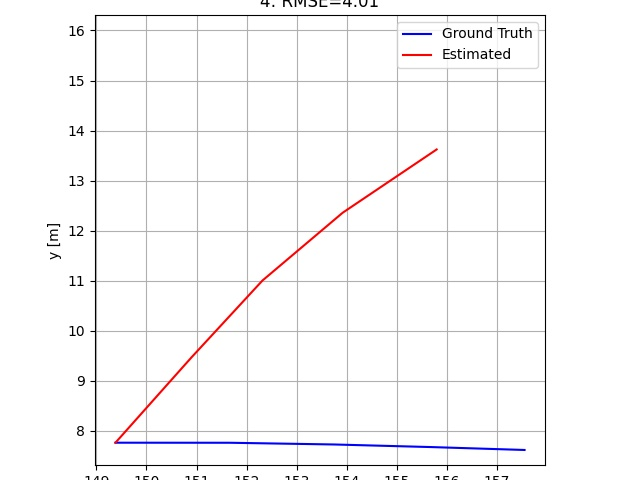
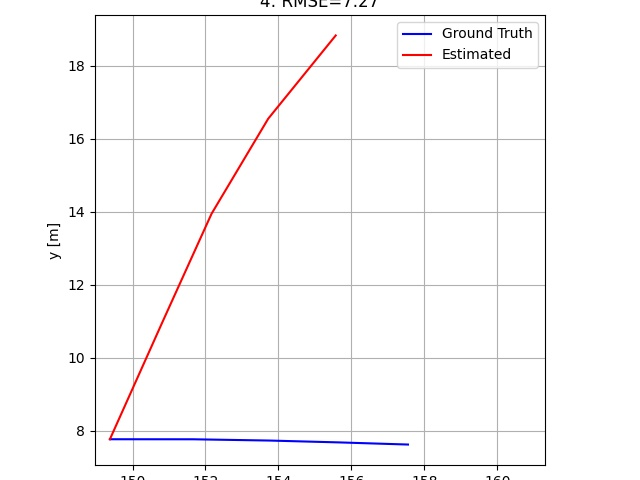
fix bug with get pose at time, trajectory is still off. high y translation

diff --git a/trajectoryPlotting.py b/trajectoryPlotting.py
@@ -48,7 +48,7 @@ class Trajectory():
             # attempt cubic interpolation, will fail if insufficient points
             interpX = scipy.interpolate.interp1d(self.timestamps, self.poses[:,0], kind='cubic', bounds_error=False)
             interpY = scipy.interpolate.interp1d(self.timestamps, self.poses[:,1], kind='cubic', bounds_error=False)
-            interpTH = scipy.interpolate.interp1d(self.timestamps, self.poses[:,1], kind='cubic', bounds_error=False)
+            interpTH = scipy.interpolate.interp1d(self.timestamps, self.poses[:,2], kind='cubic', bounds_error=False)
             poses = np.vstack((interpX(times), interpY(times), interpTH(times))).T
         except:
             # if cubic interpolation fails, return recorded pose at nearest timestamp
@@ -122,6 +122,7 @@ def getGroundTruthTrajectory(gtPath):
             x += dx * np.cos(th) + dy * -np.sin(th)
             y += dx * np.sin(th) + dy * np.cos(th)
             th += dth
+            th = normalize_angles(th)
             gt_poses.append([x,y,th])
     gt_timestamps = np.array(gt_timestamps)
     gt_poses = np.array(gt_poses)

diff --git a/testDeadReckoning.py b/testDeadReckoning.py
@@ -64,6 +64,7 @@ ylims = [-100, 100]
 
 # generate landmarks
 gtLandmarks = (np.random.rand(200,2) - .5) * 100
+plt.title('ground truth')
 plt.scatter(gtLandmarks[:,0], gtLandmarks[:,1])
 quiver(poses)
 plt.xlim(xlims[0],xlims[1])
@@ -109,14 +110,13 @@ for t in range(1,T):
     R, h = calculateTransformSVD(good_old, good_new)
     R_th = np.arctan2(R[1, 0], R[0, 0]) * 180 / np.pi
     dx_rob_est, dy_rob_est, dth_rob_est = -R_th, -float(h[0]), -float(h[1])
-    print(f"[Calculated]: d_th={dth_rob_est:.2f}\th=[{dx_rob_est:.2f},{dy_rob_est:.2f}]")
+    print(f"[Calculated]: d_th={dth_rob_est:.2f} \t h=[{dx_rob_est:.2f},{dy_rob_est:.2f}]")
     
     # get actual transform
     dx_rob_gt, dy_rob_gt, dth_rob_gt = commands[t-1]
     dth_rob_gt = np.rad2deg(dth_rob_gt)
-    print(f"    [Actual]: d_th={dth_rob_gt:.2f}\th={[dx_rob_gt,dy_rob_gt]}")
+    print(f"    [Actual]: d_th={dth_rob_gt:.2f} \t h={[dx_rob_gt,dy_rob_gt]}")
     estTraj.appendRelativeTransform(t, R, h)
 
-plt.show(block=True)
 plotGtAndEstTrajectory(gtTraj, estTraj)
 plt.show(block=True)

diff --git a/getTransformKLT.py b/getTransformKLT.py
@@ -359,8 +359,9 @@ if __name__ == "__main__":
     gtTrajPath = os.path.join("data", datasetName, "gt", "radar_odometry.csv")
     gtTraj = getGroundTruthTrajectory(gtTrajPath)
     initTimestamp = radarImgPathToTimestamp(imgPathArr[startImgInd])
-    estTraj = Trajectory([initTimestamp],
-                         [*gtTraj.getPoseAtTimes(initTimestamp)])
+    
+    initPose = gtTraj.getPoseAtTimes(initTimestamp)[0,:]
+    estTraj = Trajectory([initTimestamp], [initPose])
 
     good_old = None
     for imgNo in range(startImgInd + 1, nImgs):
@@ -403,7 +404,7 @@ if __name__ == "__main__":
 
             #R, h = estimateTransformUsingDelats(good_old, good_new)
 
-            # print(f"R={R}\nh={h}")
+            print(f"R={R}\nh={h}")
 
             # Visualizations
             plt.clf()
